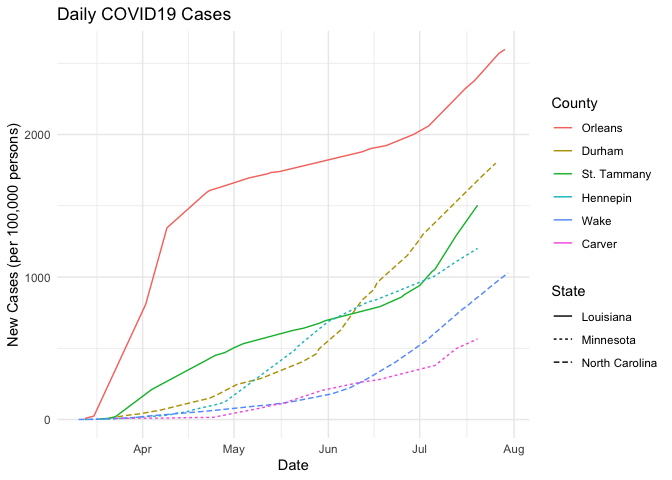
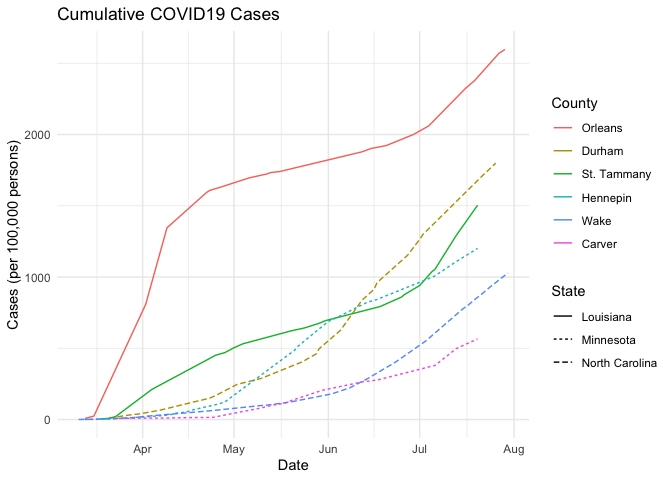
Corrected groups plots

Changed region(s): [[0.0938, 0.0, 0.4062, 0.0625], [0.0, 0.25, 0.0312, 0.7188]]

diff --git a/challenges/c06-covid19-assignment.md b/challenges/c06-covid19-assignment.md
@@ -984,9 +984,9 @@ final_counties_cases <- df_final_counties %>%
   scale_color_discrete(name = "County") +
   theme_minimal() +
   labs(
-    title = "Daily COVID19 Cases",
+    title = "Cumulative COVID19 Cases",
     x = "Date",
-    y = "New Cases (per 100,000 persons)"
+    y = "Cases (per 100,000 persons)"
   )
 
 final_counties_deaths <- df_final_counties %>% 
@@ -1006,9 +1006,9 @@ final_counties_deaths <- df_final_counties %>%
   scale_color_discrete(name = "County") +
   theme_minimal() +
   labs(
-    title = "Daily COVID19 Deaths",
+    title = "Cumulative COVID19 Deaths",
     x = "Date",
-    y = "New Deaths (per 100,000 persons)"
+    y = "Deaths (per 100,000 persons)"
   )
 
 final_counties_deathratio <- df_final_counties %>%
@@ -1027,9 +1027,9 @@ final_counties_deathratio <- df_final_counties %>%
   scale_color_discrete(name = "County") +
   theme_minimal() +
   labs(
-    title = "Daily COVID19 Cases: Deaths Ratio",
+    title = "Cumulative COVID19 Cases: Deaths Ratio",
     x = "Date",
-    y = "Daily Death: Cases Ratio (per 100,000 persons)"
+    y = "Death: Cases Ratio (per 100,000 persons)"
   )
 
 final_counties_cases
